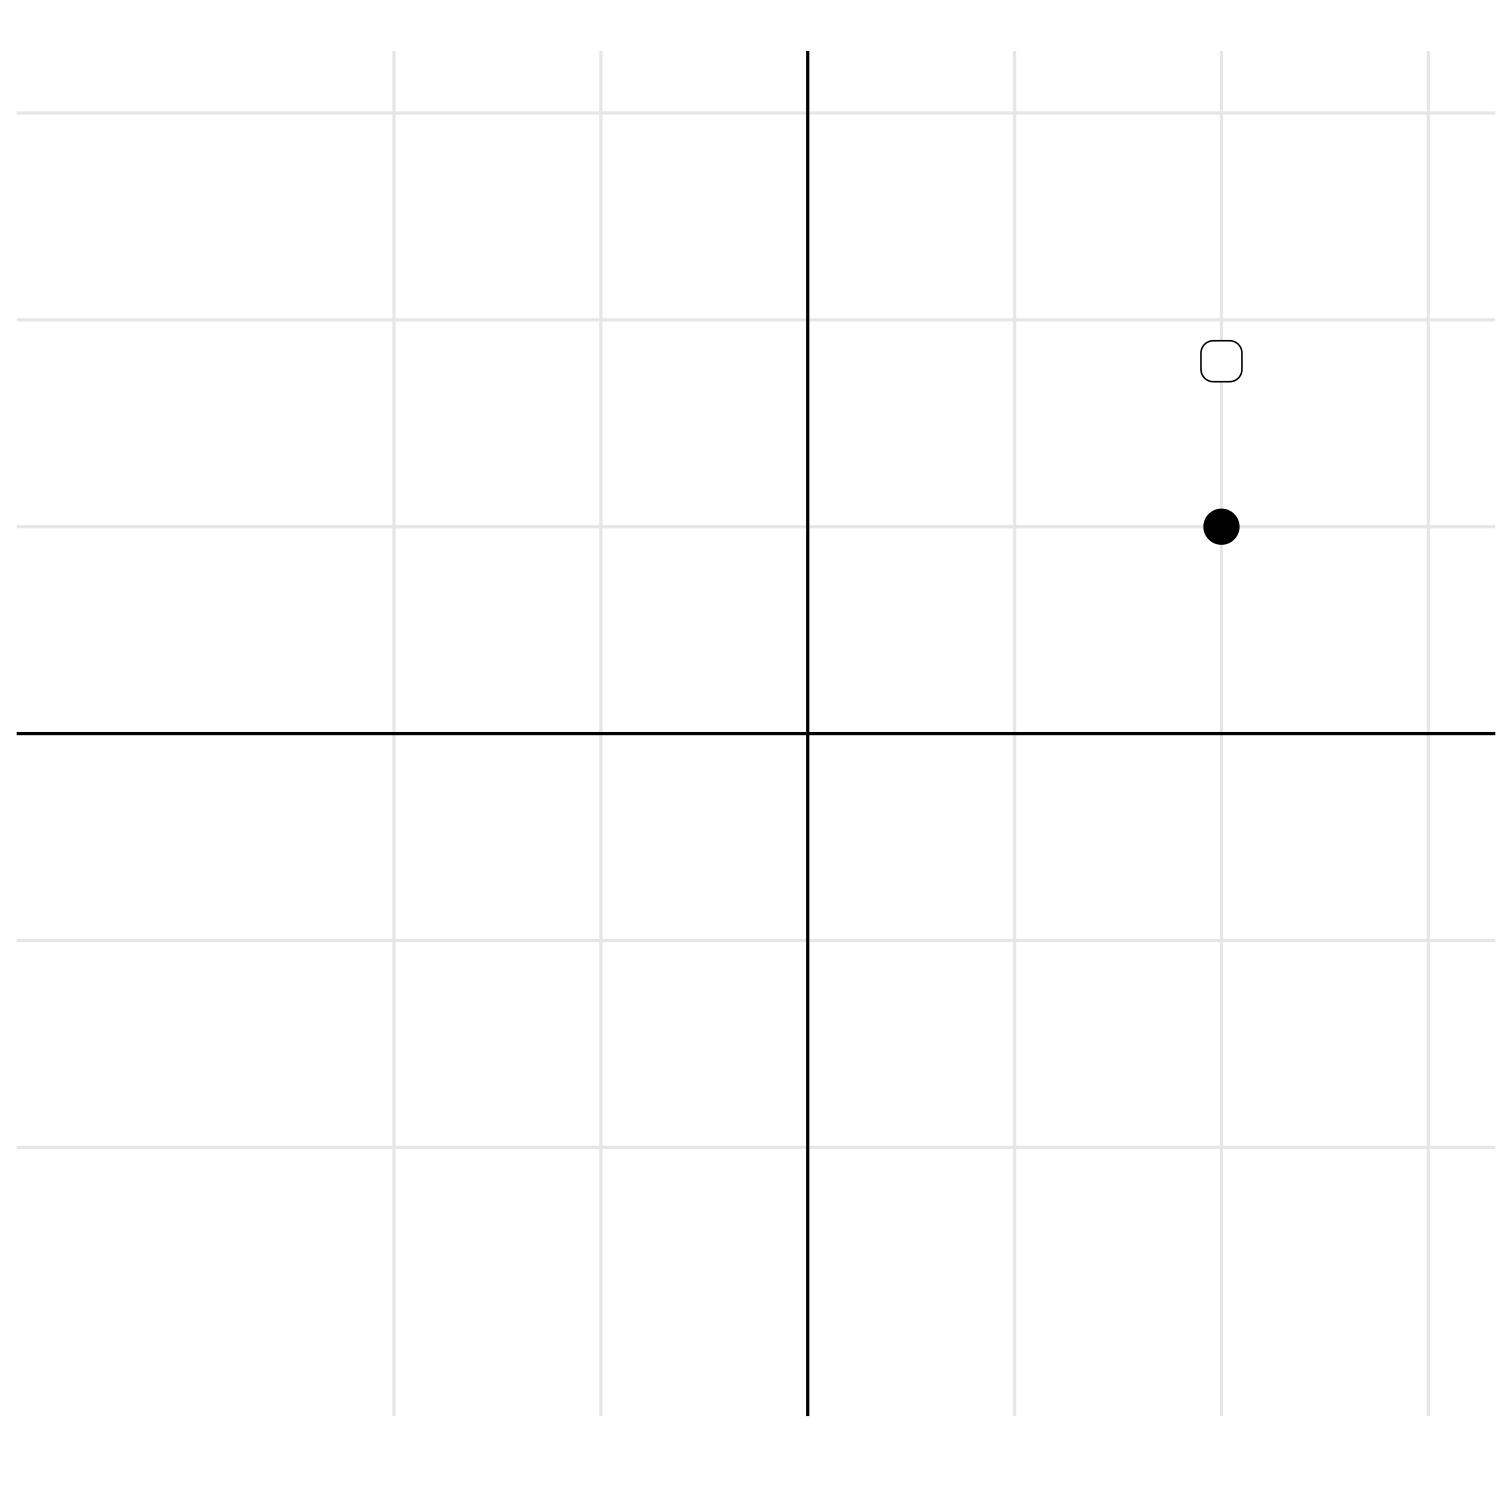
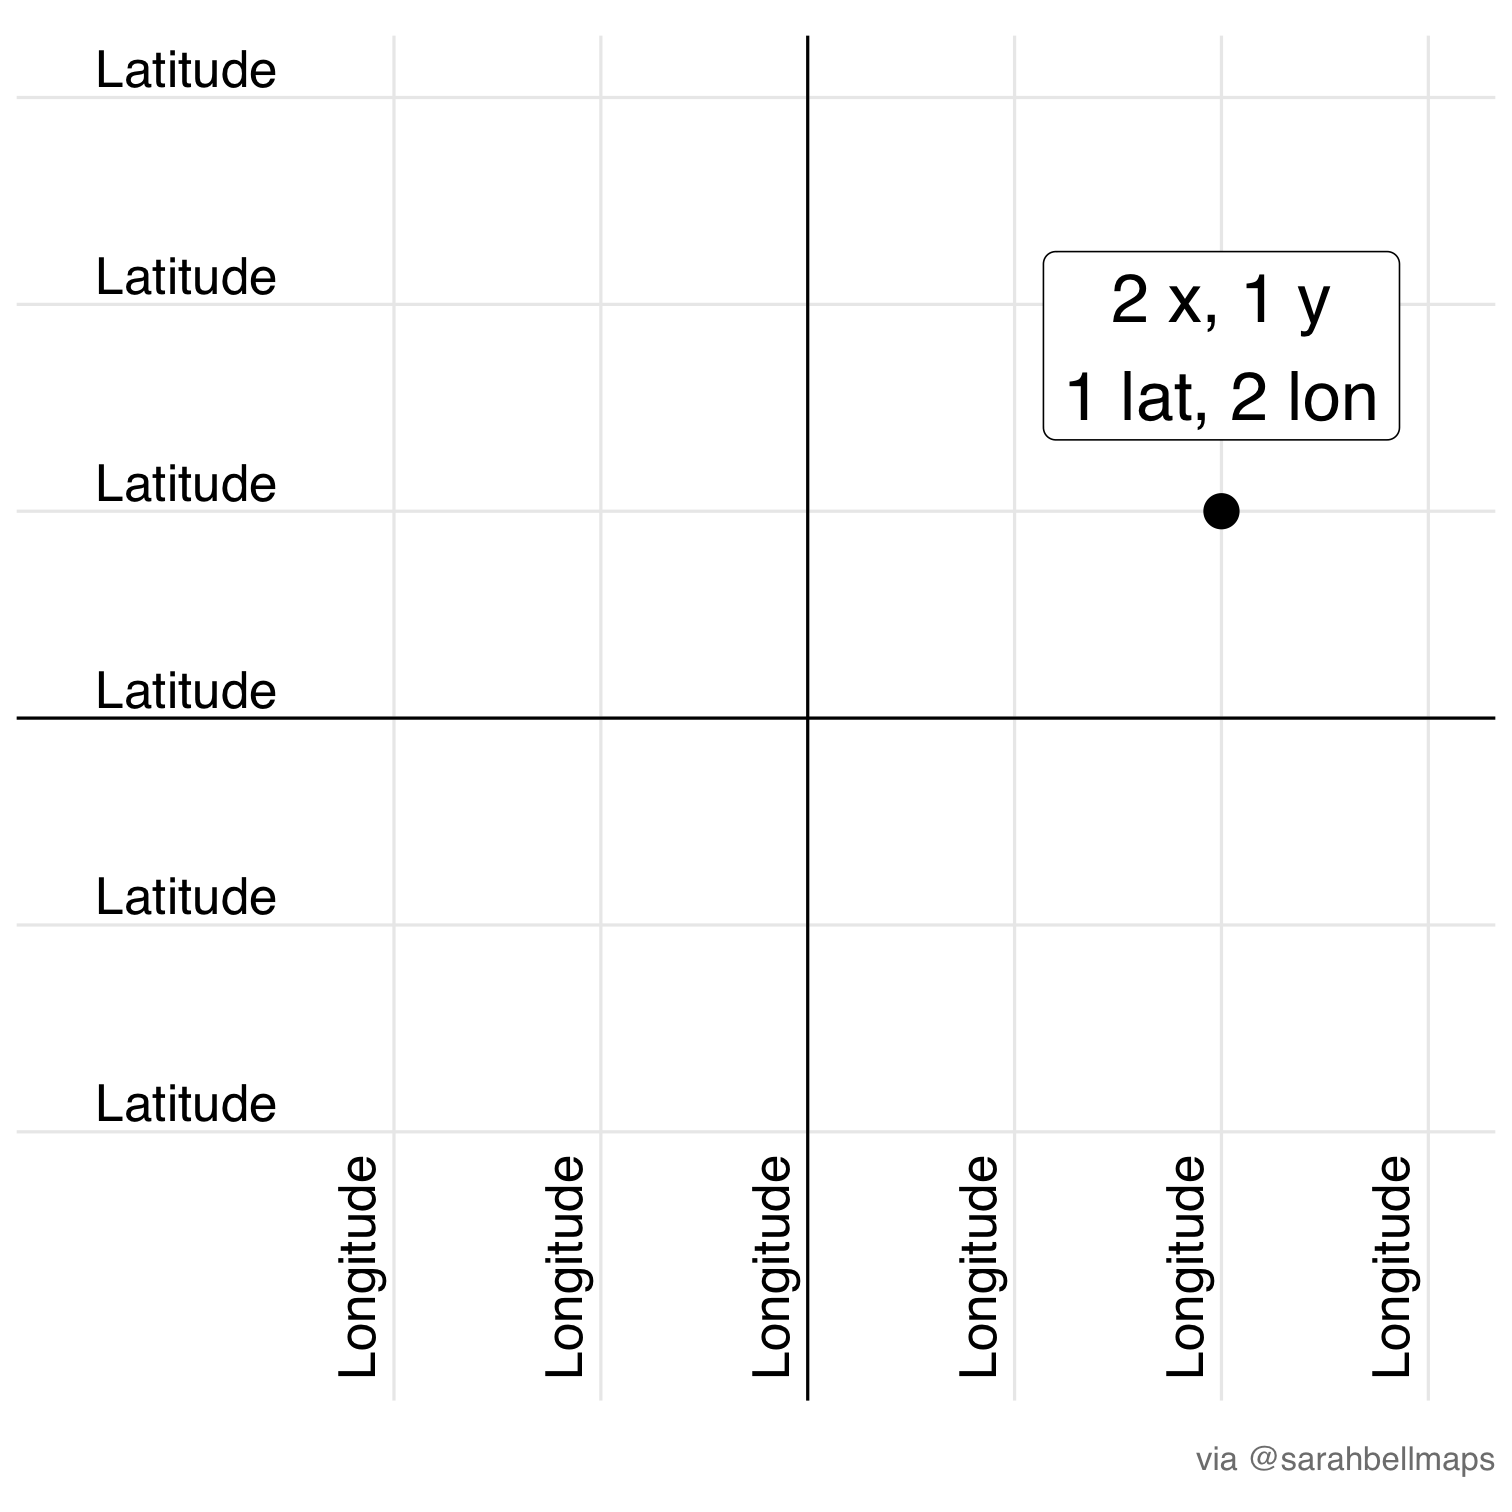
Update session 12 slides (native fonts, bracket fixes) and reformat 12-exercise

diff --git a/slides/libs/header-attrs-2.31/header-attrs.js b/slides/libs/header-attrs-2.31/header-attrs.js
@@ -1,0 +1,12 @@
+// Pandoc 2.9 adds attributes on both header and div. We remove the former (to
+// be compatible with the behavior of Pandoc < 2.8).
+document.addEventListener('DOMContentLoaded', function(e) {
+  var hs = document.querySelectorAll("div.section[class*='level'] > :first-child");
+  var i, h, a;
+  for (i = 0; i < hs.length; i++) {
+    h = hs[i];
+    if (!/^h[1-6]$/i.test(h.tagName)) continue;  // it should be a header h1-h6
+    a = h.attributes;
+    while (a.length > 0) h.removeAttribute(a[0].name);
+  }
+});
